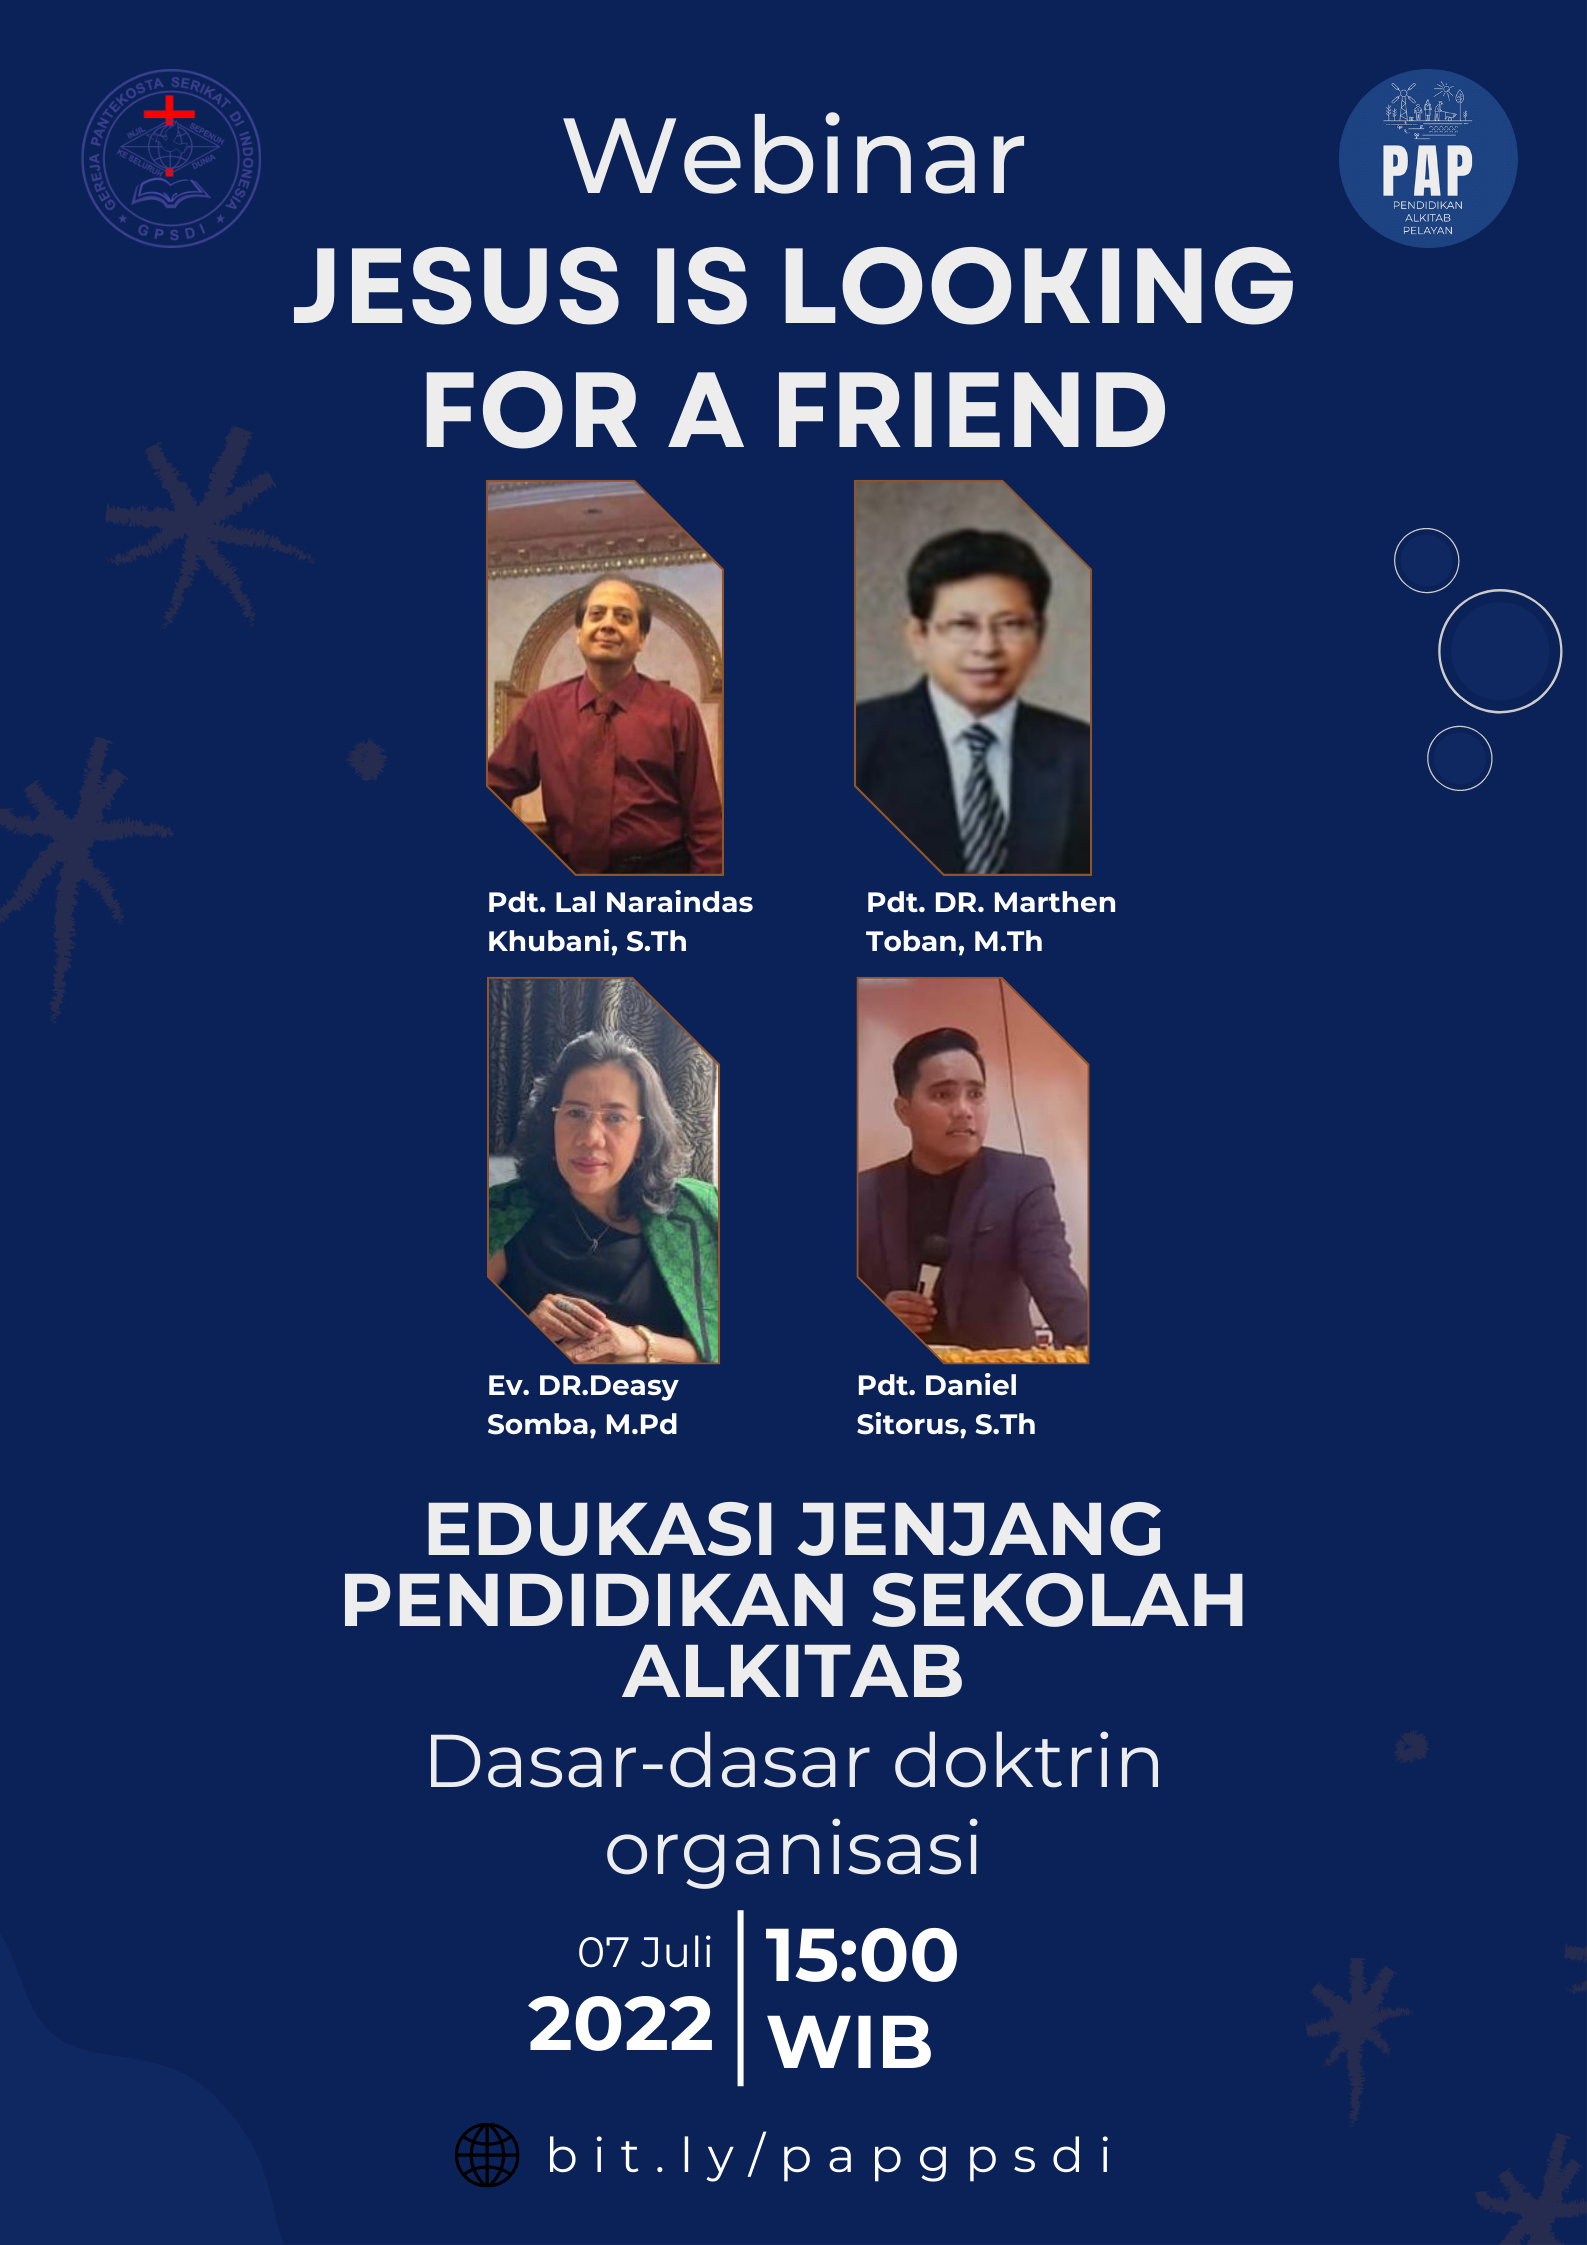
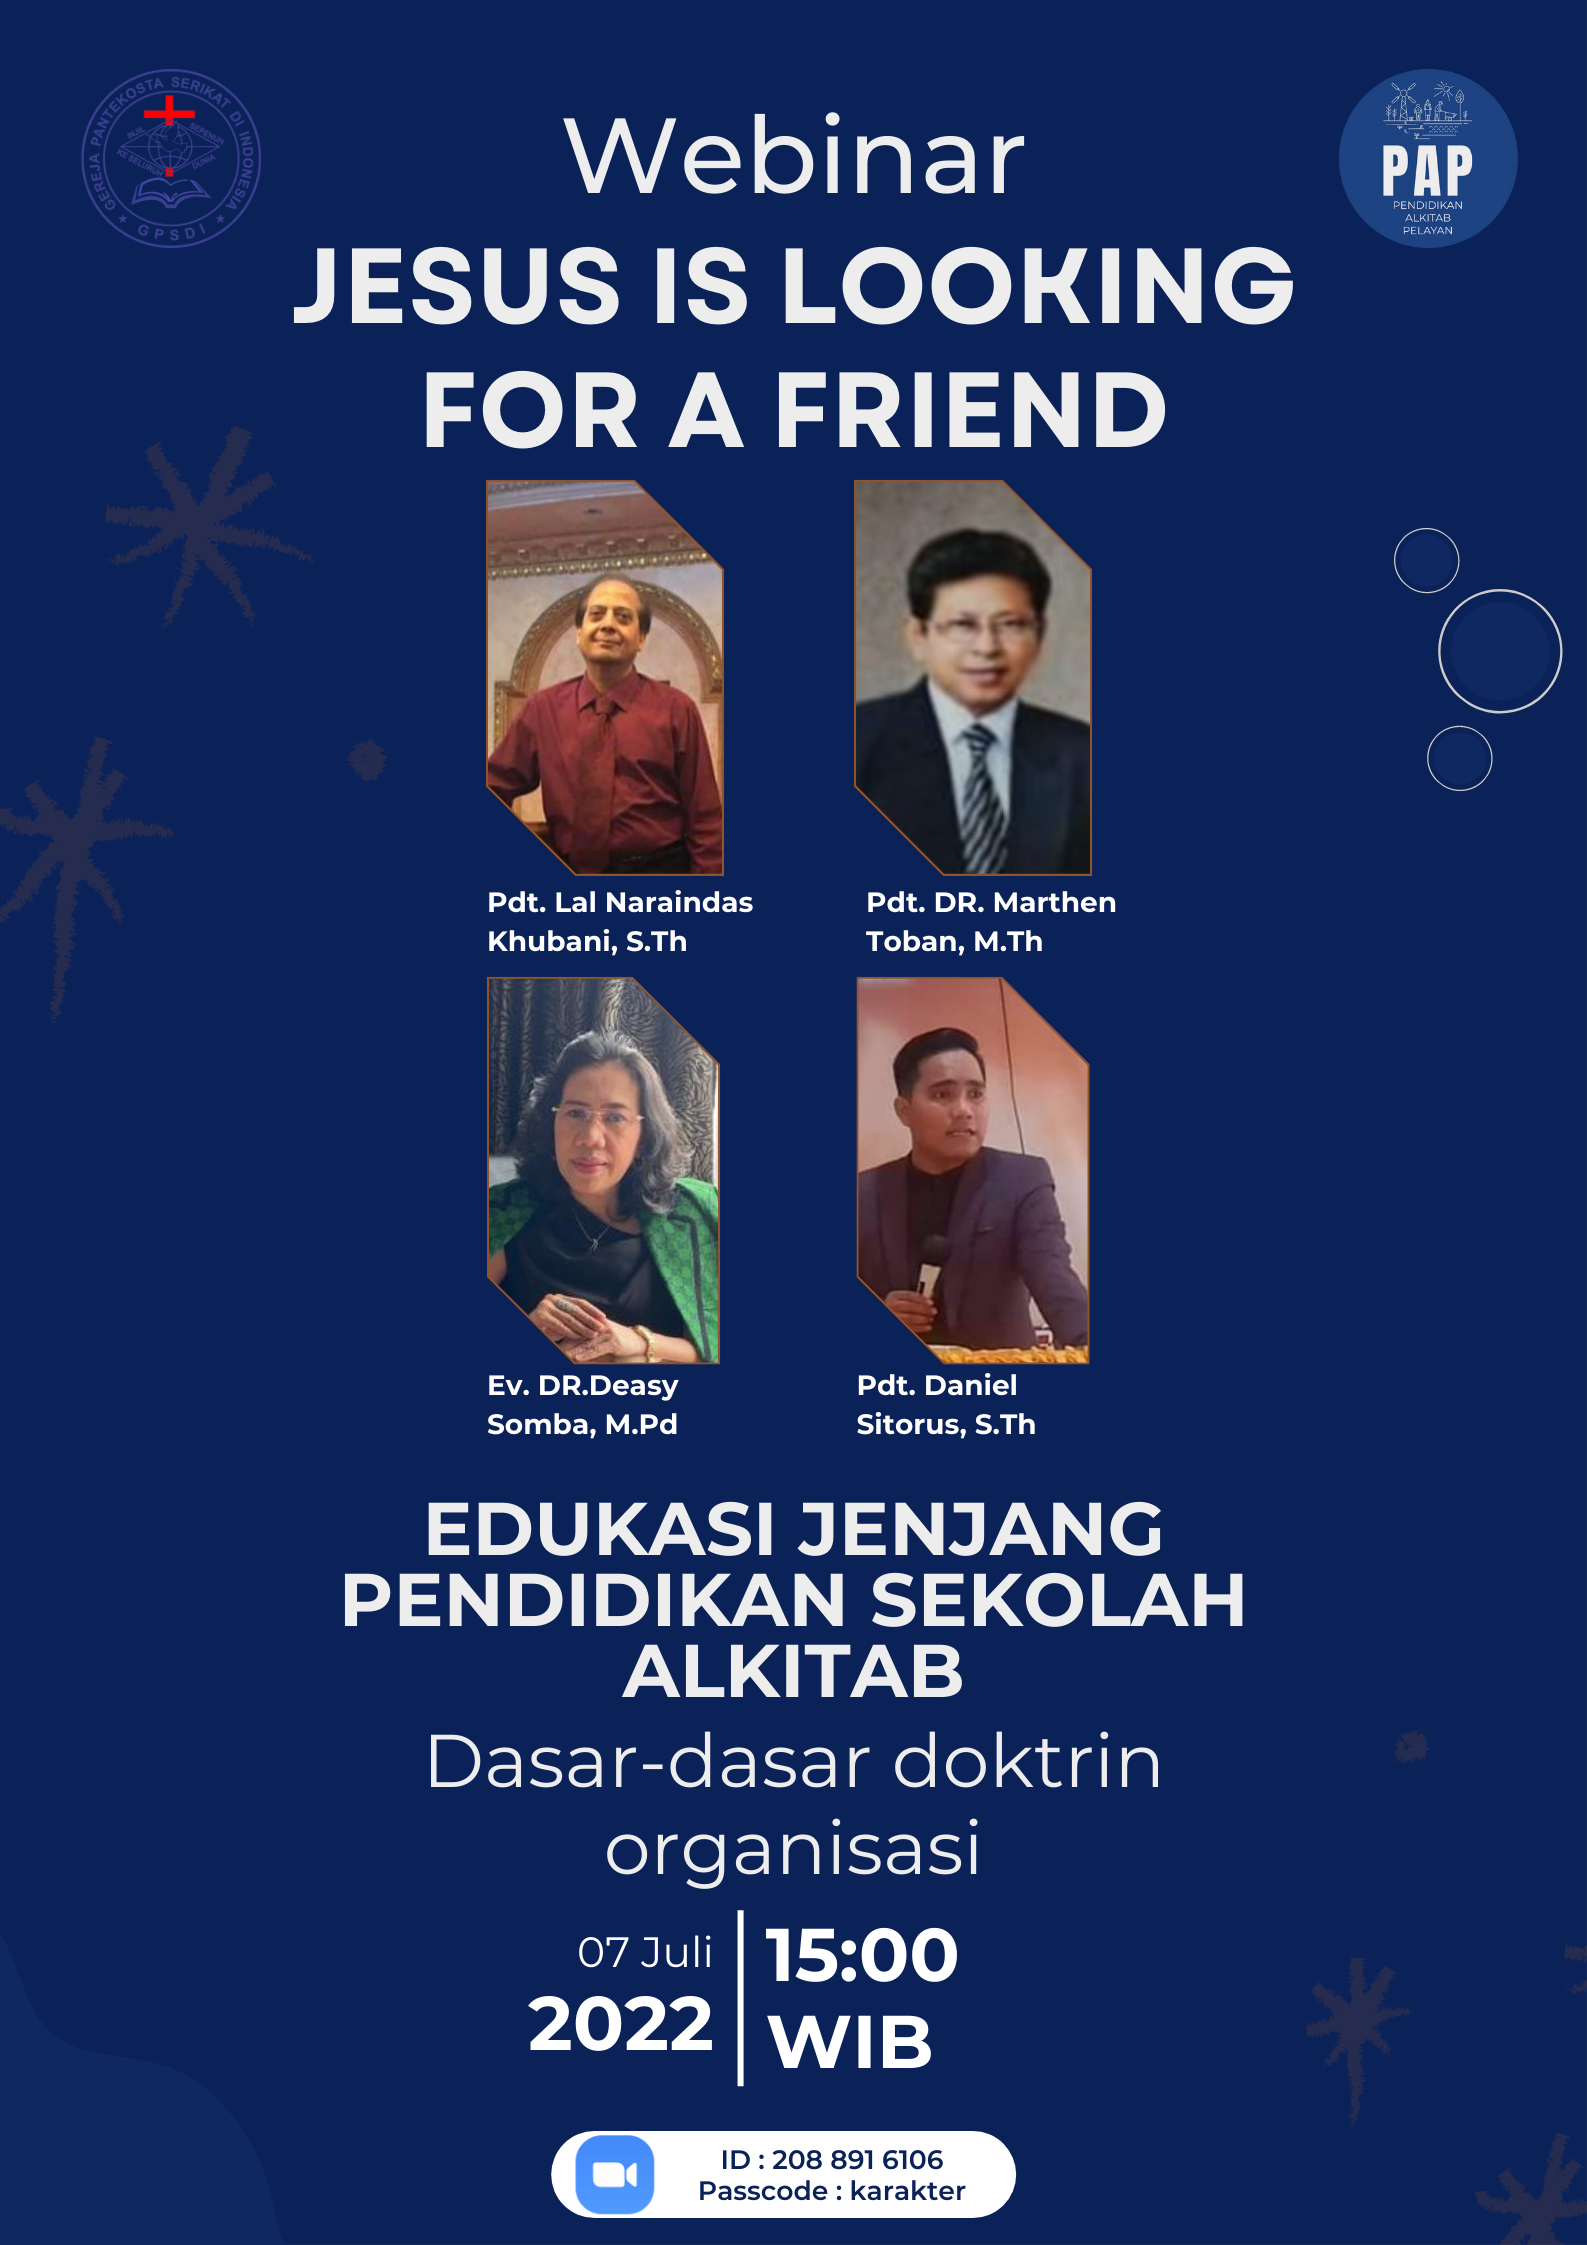
Ganti Poster

Changed region(s): [[0.2779, 0.9354, 0.6793, 0.9978]]

diff --git a/index.html b/index.html
@@ -156,7 +156,7 @@
                         Puji syukur kami panjatkan ke hadirat Tuhan Yesus Kristus yang selalu menyertai kita. Pada kesempatan ini, saya selaku ketua Departemen Pendidikan GPSDI, menyampaikan sebagaimana Surat Keputusan Badan Pekerja Sinode GPSDI Tanggal 30 mei 2022, No.29/BPS/GPSDI/V/2022 tentang Program Pendidikan Alkita Pelayan GPSDI (PAP-GPSDI), maka sebagai umat GPSDI kita menyambut dengan sukacita iman karena PAP-GPSDI mengejawantahkan atau mewujudkan, melaksanakan penerapan Amanat Sidang Sinode tentang Visi 1000 gereja  di seluruh Indonesia. Dan PAP-GPSDI merupakan salah satu alat untuk mewujudkan Visi tersebut. <br>
                         Marilah kita Bersama mendukung agar terlaksana dengan baik Visi Sinode ini. Siapa lagi yang membesarkan kalau bukan kita warga GPSDI. Di era globalisasi saat ini dengan tekhnologi yang semakin canggih, perubahan sangat cepat terjadi, termasuk dalam bidang Pendidikan kerohanian untuk pelayanan. Karena belajar tidak mengenal kata tua atau “ long life education”, belajar terus menerus dan berkesinambungan. Olehnya kami menyampaikan untuk sekolah PAP-GPSDI terbuka untuk kita semua warga Jemaat GPSDI dan dipersilahkan dari kalangan manapun dapat mengikutinya.
                         Tuhan Yesus Kristus memberkati kita semua.
-                        <br> <br> - Ev. DR. Deasy T. Somba S.Pd, sM.MPd
+                        <br> <br> - Ev. DR. Deasy T. Somba S.Pd, M.Pd
                         <br>
                         Ketua PAP GPSDI</p>
                 </div>
@@ -187,7 +187,7 @@
                                 15:15 - 17:15 WIB<br> 
                                 Pembicara : Pdt. DR. Marthen Toban, M.Th
                             </p>
-                            <a href="#"> <button class="btn btn-primary btn-lg btn-block"><img src="img/zoom.png" width="25px;"> &nbsp;Join Meeting</button></a>
+                            <a href="https://us02web.zoom.us/j/2088916106?pwd=S2N0RnNzR2xZVms0ZVVkN2RlUmJpUT09" target="_blank"> <button class="btn btn-primary btn-lg btn-block"><img src="img/zoom.png" width="25px;"> &nbsp;Join Meeting</button></a>
                         </div>
                     </div>
                 </div>
